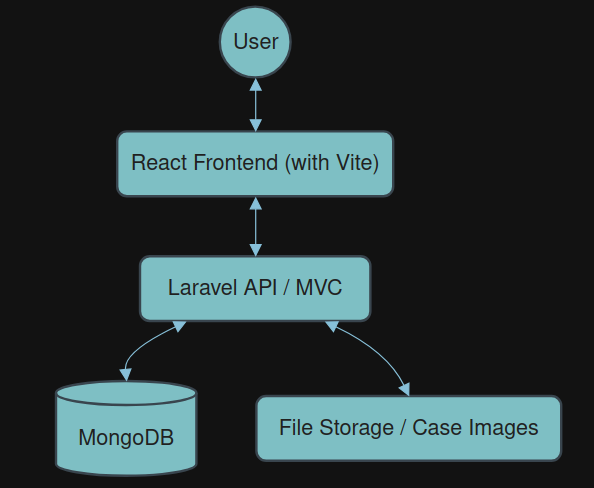
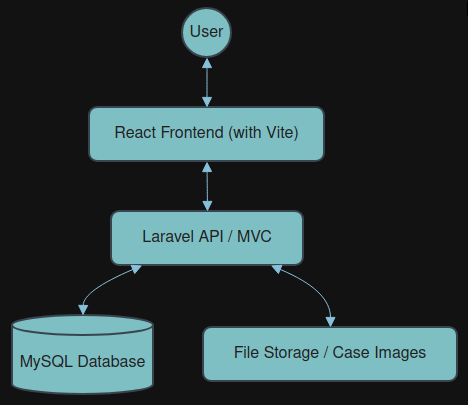
docs: change db usage plans (mongo to mysql), tweak design diagrams, update README

Changed region(s): [[0.0, 0.0, 0.7179, 0.9778], [0.4188, 0.7407, 0.9872, 0.9481], [0.2094, 0.5333, 0.2393, 0.6519]]

diff --git a/README.md b/README.md
@@ -7,14 +7,14 @@ A minimal web application for remote pediatric dermatology consultations.
 ## Tech Stack
 - **Backend:** Laravel
 - **Frontend:** React + Tailwind CSS (Vite)
-- **Database:** MongoDB
+- **Database:** MySQL
 
 ---
 
 ## System Overview
 ![Overview](./assets/overview.png)
 
-## Basic Data Flow
-![Flow](./assets/flow.png)
+## Medical Consultation Sequence Diagram
+![Sequence](./assets/sequence.png)
 
 ---
